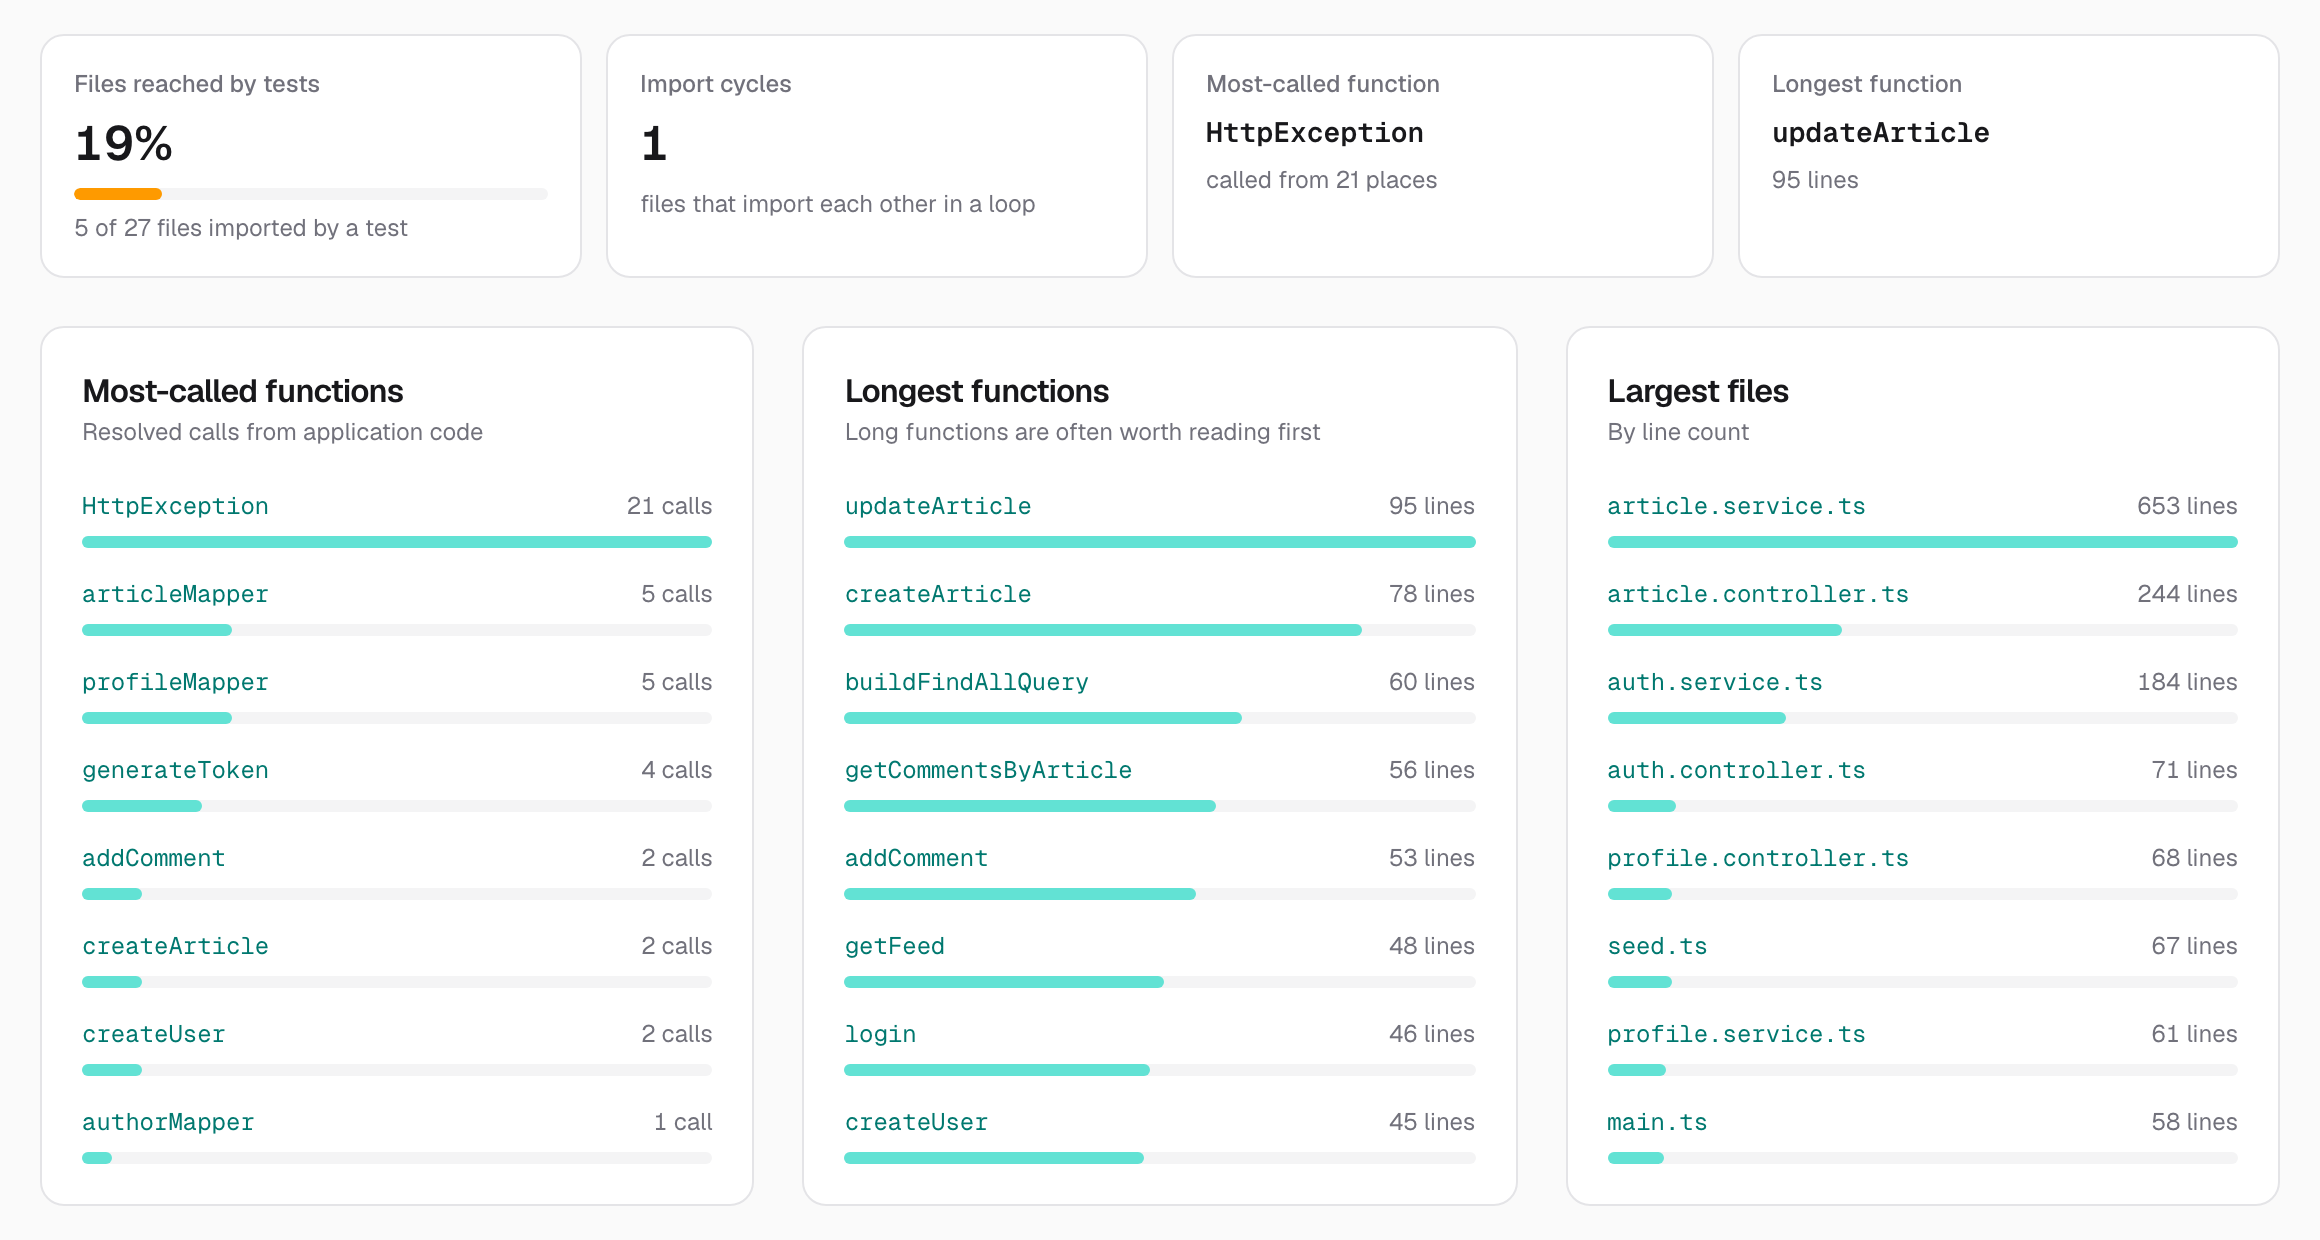
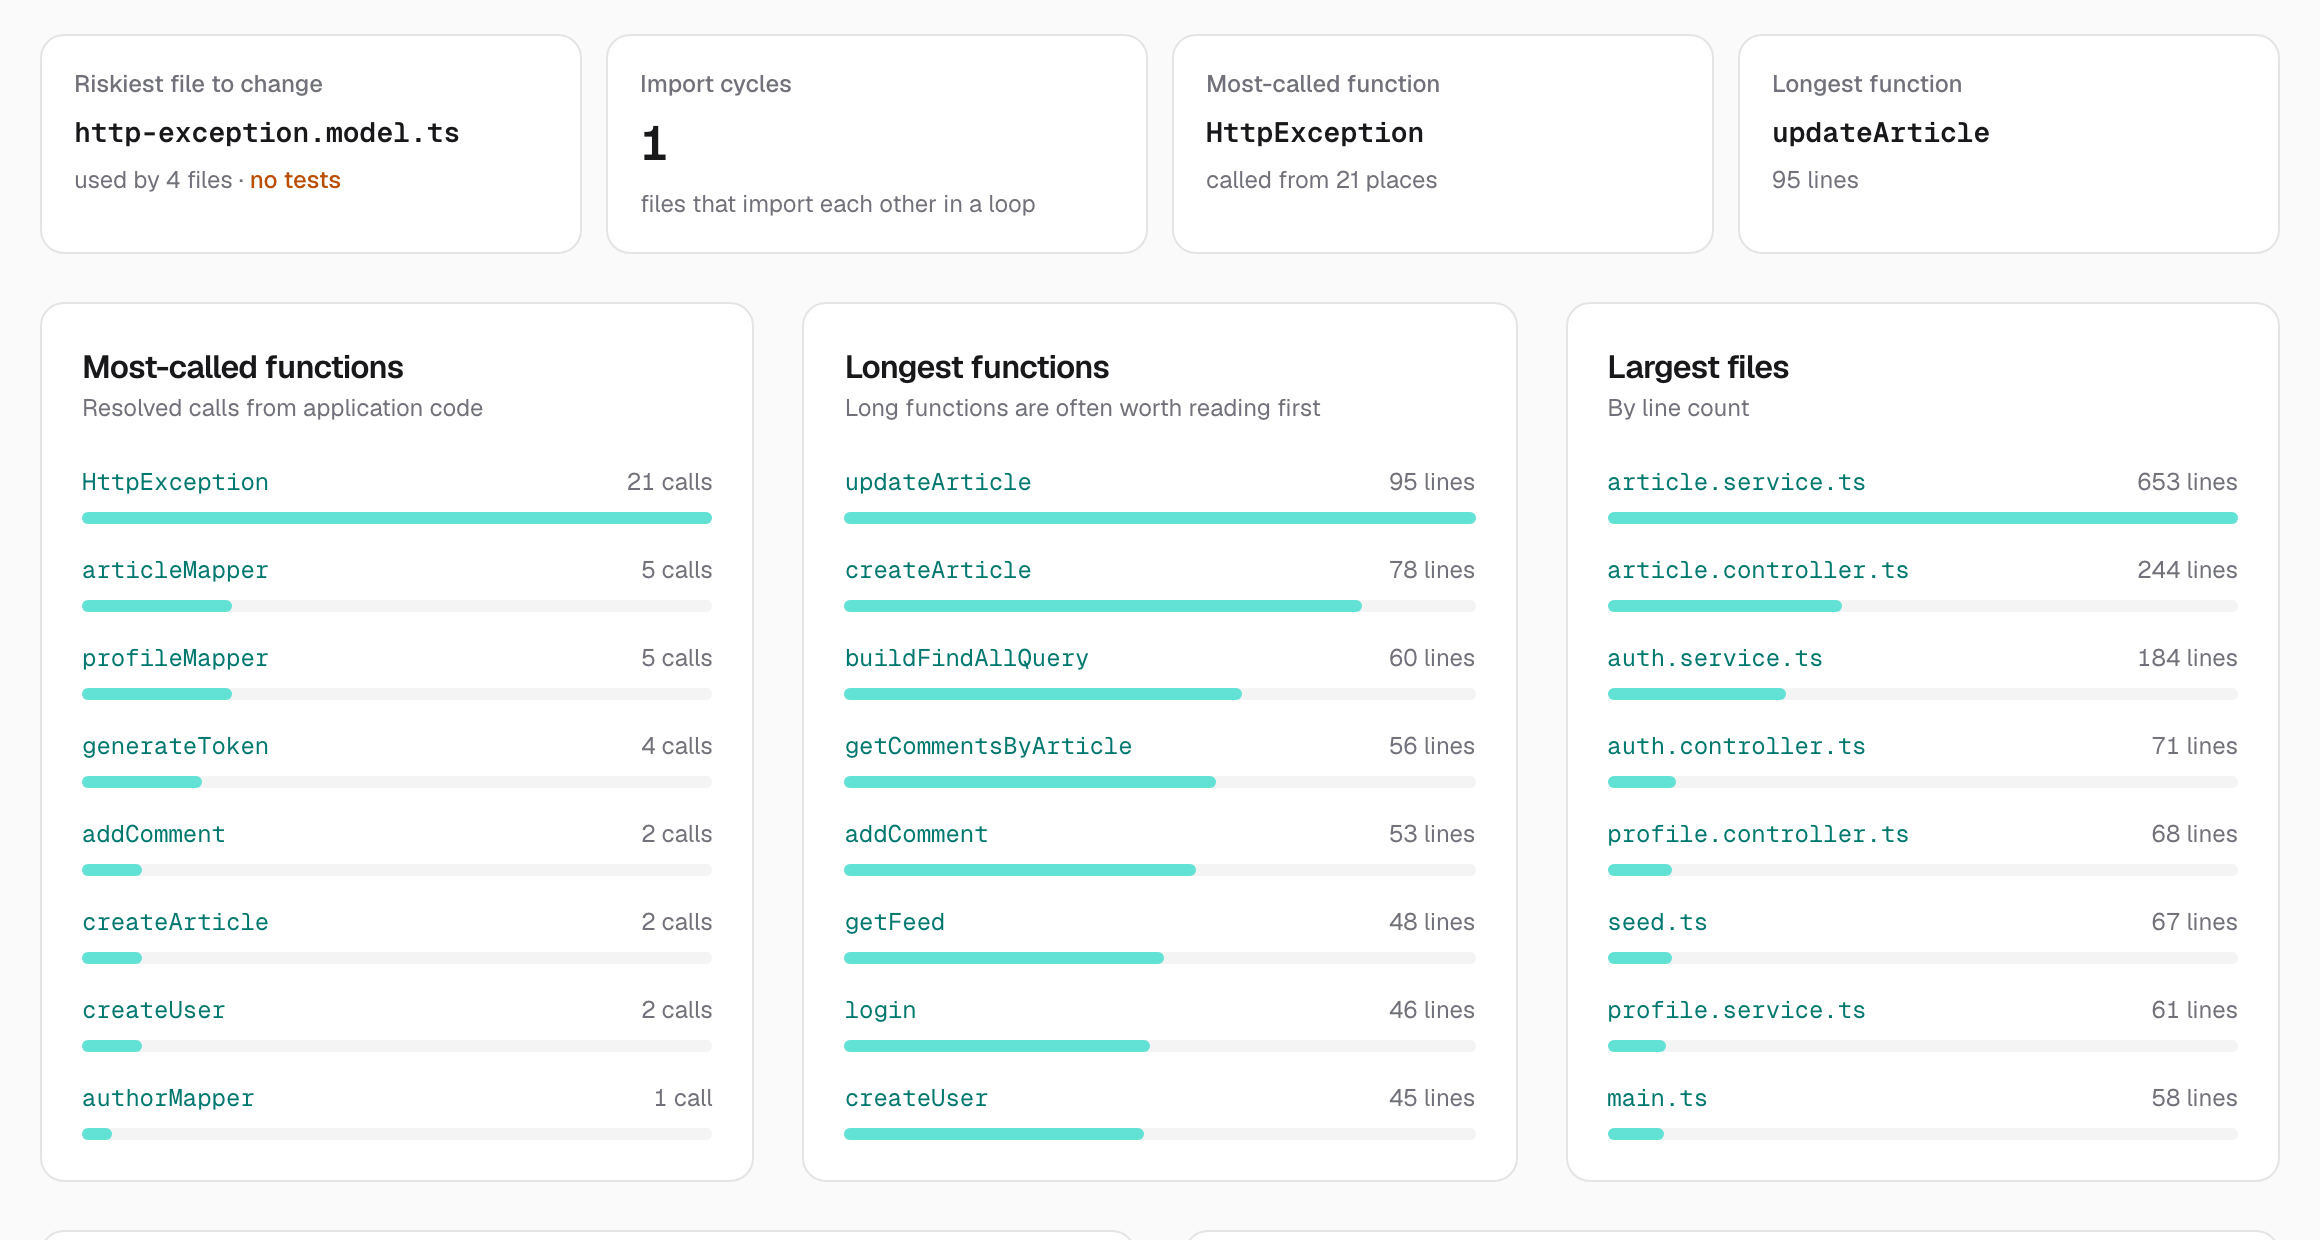
Make the Insights test section actionable
The headline card is now the riskiest file to change (the most
depended-on file no test imports) instead of a coverage percentage,
which is demoted to a footnote saying it's based on imports, not on
running tests. Most-tested files become "Learn from the tests", linking
each file to the test files that exercise it.

diff --git a/apps/web/src/components/insights-view.tsx b/apps/web/src/components/insights-view.tsx
@@ -8,7 +8,8 @@ const delay = (ms: number): CSSProperties => ({ animationDelay: `${ms}ms` });
 /** Codebase health from the parsed graph: hotspots, test reach and import cycles. */
 export function InsightsView({ snapshotId, insights }: { snapshotId: string; insights: Insights }) {
   const { testReach } = insights;
-  const reach = testReach.sourceFiles ? testReach.testedFiles / testReach.sourceFiles : 0;
+  // The file most others depend on that no test touches: where a change is least checked.
+  const riskiest = testReach.untestedHubs[0];
   const topCalled = insights.mostCalled[0];
   const longest = insights.longestFunctions[0];
   const file = (path: string, start?: number, end?: number, text?: ReactNode) => (
@@ -23,22 +24,34 @@ export function InsightsView({ snapshotId, insights }: { snapshotId: string; ins
   return (
     <div className="flex flex-col gap-6">
       <p className="text-sm text-zinc-600 dark:text-zinc-400">
-        A health check computed from the parsed code (no AI): where the code is concentrated, what
-        the tests reach, and where files import each other in a loop. Rankings cover application
-        code, not tests or examples.
+        A health check computed from the parsed code (no AI): where the code is concentrated, where
+        a change is risky because no test checks it, and where files import each other in a loop.
+        Rankings cover application code, not tests or examples.
       </p>
 
       <dl className="grid grid-cols-2 gap-3 lg:grid-cols-4">
-        <Stat label="Files reached by tests" delay={0}>
-          <span className="text-2xl font-semibold tabular-nums">
-            {testReach.hasTests ? `${Math.round(reach * 100)}%` : '—'}
-          </span>
-          <Meter value={testReach.hasTests ? reach : 0} tone={reach >= 0.5 ? 'good' : 'warn'} />
-          <span className="text-xs text-zinc-500 dark:text-zinc-400">
-            {testReach.hasTests
-              ? `${testReach.testedFiles} of ${testReach.sourceFiles} files imported by a test`
-              : 'No test files found'}
-          </span>
+        <Stat label="Riskiest file to change" delay={0}>
+          {riskiest ? (
+            <>
+              <Link
+                href={codeHref(snapshotId, riskiest.path)}
+                title={riskiest.path}
+                className="truncate font-mono text-sm font-semibold hover:text-brand-700 hover:underline dark:hover:text-brand-400"
+              >
+                {riskiest.path.split('/').at(-1)}
+              </Link>
+              <span className="text-xs text-zinc-500 dark:text-zinc-400">
+                used by {riskiest.importedBy} {riskiest.importedBy === 1 ? 'file' : 'files'} ·{' '}
+                <span className="font-medium text-amber-700 dark:text-amber-400">
+                  {testReach.hasTests ? 'no tests' : 'this repo has no tests'}
+                </span>
+              </span>
+            </>
+          ) : (
+            <span className="text-sm text-zinc-500 dark:text-zinc-400">
+              Every file others depend on has tests
+            </span>
+          )}
         </Stat>
         <Stat label="Import cycles" delay={60}>
           <span className="text-2xl font-semibold tabular-nums">{insights.cycles.length}</span>
@@ -126,45 +139,56 @@ export function InsightsView({ snapshotId, insights }: { snapshotId: string; ins
       <div className="grid gap-6 lg:grid-cols-2">
         <Section
           title="Important files without tests"
-          hint="Not imported by any test, ranked by how many files depend on them"
+          hint="Many files depend on them and no test imports them, so a change here goes unchecked"
           delay={420}
         >
-          {!testReach.hasTests ? (
-            <Empty>This repository has no test files.</Empty>
-          ) : (
-            <Bars
-              tone="warn"
-              empty="Every file that others depend on is imported by a test."
-              items={testReach.untestedHubs.map((h) => ({
-                key: h.path,
-                value: h.importedBy,
-                label: file(h.path),
-                detail: `used by ${h.importedBy} ${h.importedBy === 1 ? 'file' : 'files'}`,
-              }))}
-            />
-          )}
+          <Bars
+            tone="warn"
+            empty="Every file that others depend on is imported by a test."
+            items={testReach.untestedHubs.map((h) => ({
+              key: h.path,
+              value: h.importedBy,
+              label: file(h.path),
+              detail: `used by ${h.importedBy} ${h.importedBy === 1 ? 'file' : 'files'}`,
+            }))}
+          />
         </Section>
         <Section
-          title="Most-tested files"
-          hint="Imported directly by the most test files"
+          title="Learn from the tests"
+          hint="Tests show how code is meant to be called and what it returns; open both side by side"
           delay={480}
         >
           {!testReach.hasTests ? (
             <Empty>This repository has no test files.</Empty>
+          ) : testReach.mostTested.length === 0 ? (
+            <Empty>No test imports application files directly.</Empty>
           ) : (
-            <Bars
-              tone="good"
-              empty="No test imports application files directly."
-              items={testReach.mostTested.map((t) => ({
-                key: t.path,
-                value: t.tests,
-                label: file(t.path),
-                detail: `${t.tests} ${t.tests === 1 ? 'test file' : 'test files'}`,
-              }))}
-            />
+            <ul className="flex flex-col gap-3">
+              {testReach.mostTested.map((t) => (
+                <li key={t.path} className="flex min-w-0 flex-col gap-1">
+                  {file(t.path)}
+                  <span className="flex min-w-0 flex-wrap items-baseline gap-x-2 gap-y-0.5 pl-3 text-xs text-zinc-500 dark:text-zinc-400">
+                    <span aria-hidden className="text-emerald-600 dark:text-emerald-400">
+                      ↳
+                    </span>
+                    tested in
+                    {t.testFiles.map((test) => (
+                      <span key={test} className="min-w-0">
+                        {file(test, undefined, undefined, test.split('/').at(-1))}
+                      </span>
+                    ))}
+                  </span>
+                </li>
+              ))}
+            </ul>
           )}
         </Section>
       </div>
+      <p className="-mt-3 text-xs text-zinc-500 dark:text-zinc-400">
+        {testReach.hasTests
+          ? `${testReach.testedFiles} of ${testReach.sourceFiles} application files are imported directly by a test file. Tests aren't run here, so this is a rough guide rather than coverage.`
+          : 'This repository has no test files, so nothing above is checked by tests.'}
+      </p>
 
       <Section
         title="Import cycles"
@@ -220,23 +244,6 @@ function Stat({
     >
       <dt className="text-xs font-medium text-zinc-500 dark:text-zinc-400">{label}</dt>
       <dd className="flex min-w-0 flex-col gap-1.5">{children}</dd>
-    </div>
-  );
-}
-
-function Meter({ value, tone }: { value: number; tone: 'good' | 'warn' }) {
-  return (
-    <div
-      className="h-1.5 overflow-hidden rounded-full bg-zinc-100 dark:bg-zinc-800"
-      role="meter"
-      aria-valuenow={Math.round(value * 100)}
-      aria-valuemin={0}
-      aria-valuemax={100}
-    >
-      <div
-        className={`h-full origin-left animate-grow rounded-full ${tone === 'good' ? 'bg-emerald-500' : 'bg-amber-500'}`}
-        style={{ width: `${Math.max(value * 100, value > 0 ? 3 : 0)}%` }}
-      />
     </div>
   );
 }

diff --git a/README.md b/README.md
@@ -36,7 +36,7 @@ Pick a route and follow its handler into the functions it calls, breadth-first t
 
 ### Insights: a health check of the codebase
 
-A tab of facts computed from the code graph, with no AI: the most-called functions, the longest functions and largest files, how many files the tests reach and which important files they miss, and import cycles between files (found with Tarjan's strongly connected components).
+A tab of facts computed from the code graph, with no AI: the most-called functions, the longest functions and largest files; the riskiest files to change (many files depend on them, no test imports them) and which test file to read to learn each tested file; and import cycles between files (found with Tarjan's strongly connected components).
 
 ![Insights for the RealWorld Express API](docs/images/insights.png)
 
